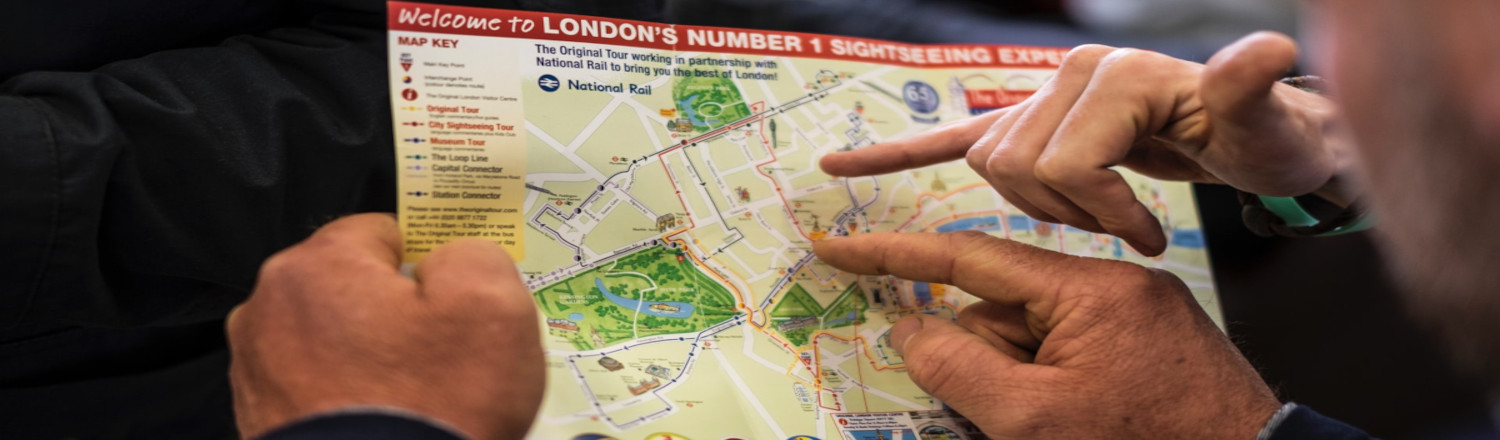
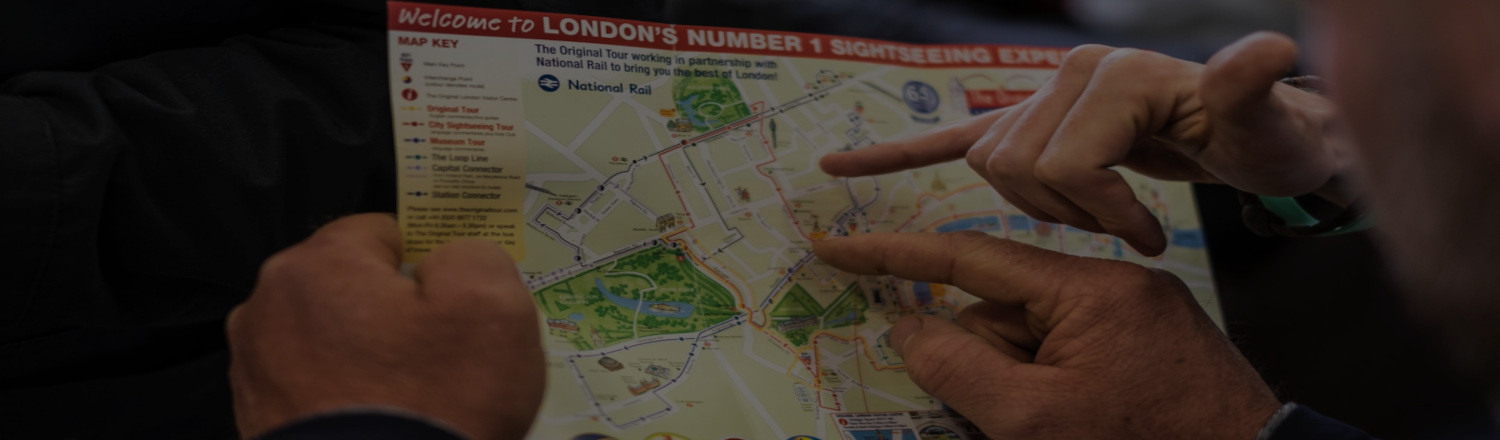
remove old parallax

diff --git a/index.html b/index.html
@@ -418,8 +418,13 @@
       </div>
     </div> -->
 
-    <div id="bookingBanner">
-      <img class="thumbnail" src="./images/booking-banner.jpg" alt="image" />
+    <div
+      id="bookingBanner"
+      data-jarallax
+      data-speed="0.2"
+      class="jarallax py-5"
+    >
+      <img class="jarallax-img" src="./images/booking-banner.jpg" alt="" />
       <div id="bookingBannerInfo" class="row">
         <div class="col-md-6 offset-md-3 text-center text-white">
           <h2 class="display-4 heading">
@@ -532,7 +537,7 @@
       integrity="sha384-JjSmVgyd0p3pXB1rRibZUAYoIIy6OrQ6VrjIEaFf/nJGzIxFDsf4x0xIM+B07jRM"
       crossorigin="anonymous"
     ></script>
-    <script src="https://cdn.jsdelivr.net/npm/simple-parallax-js@5.6.1/dist/simpleParallax.min.js"></script>
+    <script src="https://unpkg.com/jarallax@1/dist/jarallax.min.js"></script>
     <script src="./js/scripts.js"></script>
     <!-- endbuild -->
   </body>

diff --git a/css/styles.css b/css/styles.css
@@ -42,3 +42,18 @@ body {
 
 #services {
   padding: 6rem 0; }
+
+.jarallax {
+  position: relative;
+  z-index: 0; }
+
+.jarallax > .jarallax-img {
+  position: absolute;
+  object-fit: cover;
+  /* support for plugin https://github.com/bfred-it/object-fit-images */
+  font-family: 'object-fit: cover;';
+  top: 0;
+  left: 0;
+  width: 100%;
+  height: 100%;
+  z-index: -1; }

diff --git a/css/styles.scss b/css/styles.scss
@@ -64,3 +64,19 @@ body {
 #services {
   padding: 6rem 0;
 }
+
+.jarallax {
+  position: relative;
+  z-index: 0;
+}
+.jarallax > .jarallax-img {
+  position: absolute;
+  object-fit: cover;
+  /* support for plugin https://github.com/bfred-it/object-fit-images */
+  font-family: 'object-fit: cover;';
+  top: 0;
+  left: 0;
+  width: 100%;
+  height: 100%;
+  z-index: -1;
+}
